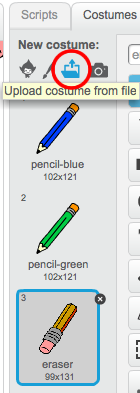
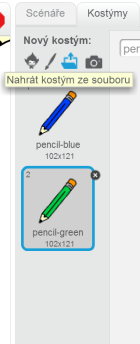
pb

diff --git a/cs-CZ/Term 1/Paint Box/Paint Box.md b/cs-CZ/Term 1/Paint Box/Paint Box.md
@@ -108,7 +108,7 @@ Udělej různé barevné tužky a umožni jejich používání a možnost si je 
 		rozešli všem [green v]
 	```
 
-	Abys vytvořil(a) blok pro vyslání zprávy - `broadcast` {.blockevents}, klikni na tlačítko dolů a vyber 'new message...'.
+	Abys vytvořil(a) blok pro vyslání zprávy - `rozeslat všem` {.blockevents}, klikni na tlačítko dolů a vyber 'nová zpráva...'.
 
 	![screenshot](paint-broadcast.png)
 
@@ -116,7 +116,7 @@ Udělej různé barevné tužky a umožni jejich používání a možnost si je 
 
 	![screenshot](paint-green-message.png)
 
-+ Nyní musíš říct tužce co má dělat, když dostane zprávu. Přidej tento kód do sprajtu tužky:
++ Nyní musíš říct tužce, co má dělat, když dostane zprávu. Přidej tento kód do objektu tužky:
 
 	```blocks
 		po obdržení zprávy [green v]
@@ -176,7 +176,7 @@ Občas se stane chyba a proto přidáme tlačítko 'smazat' a gumu do projektu.
 
 	Všimni si, že tady neposíláme žádnou zprávu, protože na scéně není žádný objekt, který by měl tuto činnost dělat.
 
-+ Vytvoř gumu pro mazání. Pokud jsi od vedoucího dostal soubory se zdroji, klikni 'Upload costume from file' a přidej obrázek 'eraser.svg'.
++ Vytvoř gumu pro mazání. Pokud jsi od vedoucího dostal soubory se zdroji, klikni 'Nahrát kostým ze souboru' a přidej obrázek 'eraser.svg'.
 
 	![screenshot](paint-eraser-costume.png)
 	
@@ -212,6 +212,18 @@ Občas se stane chyba a proto přidáme tlačítko 'smazat' a gumu do projektu.
 	Abys to opravil musíš tužce říct, že má kreslit jen když je stisknuté tlačítko myši _a_ když y-pozice myši větší než -110 (`mouse y`{.blocksensing}`> -120` {.blockoperators}). Změň blok `if` {.blockcontrol} tužky takto:
 
 	![screenshot](pencil-gt-code.png)
+    
+     ```blocks
+		po kliknutí na ⚑
+		opakuj dokola
+		  go to [ukazatel myši v]
+          když ((myš stisknuta a souřadnice myši y) > -120) tak
+            pero dolů
+          jinak 
+            pero nahoru
+          end
+		end
+	```
 
 + Vyzkoušej projekt; nyní bys nemělo výt možné kreslit blízko tlačítek.
 
